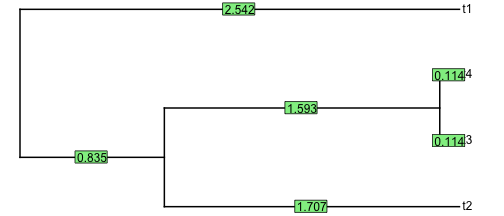
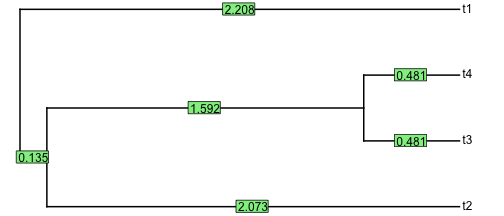
lecure 6 updated

diff --git a/GMcourse/Lectures/06-ShapeStatistics1.html b/GMcourse/Lectures/06-ShapeStatistics1.html
@@ -267,8 +267,8 @@ PCA$rot[, 1:5]
 ```
 
 
-<div class="datatables html-widget html-fill-item" id="htmlwidget-ff6ba36e5b4433b71799" style="width:100%;height:auto;"></div>
-<script type="application/json" data-for="htmlwidget-ff6ba36e5b4433b71799">{"x":{"filter":"none","vertical":false,"fillContainer":false,"data":[["1.X","1.Y","2.X","2.Y","3.X","3.Y","4.X","4.Y","5.X","5.Y","6.X","6.Y","7.X","7.Y","8.X","8.Y","9.X","9.Y","10.X","10.Y","11.X","11.Y","12.X","12.Y"],[-0.18519,0.05405,-0.25751,0.12104,0.24555,0.08671,0.01913,0.01574,0.03013,-0.06,0.03942,-0.07298,-0.03292,-0.15883,-0.07436,-0.02267,-0.1294,0.14563,-0.14615,0.04686,0.78142,-0.05272,-0.29012,-0.10285],[0.44578,0.26015,0.14487,0.35368,0.06079,0.15116,-0.00471,-0.10675,-0.04475,-0.10706,-0.02427,-0.16916,-0.14499,-0.08201,-0.0491,-0.01583,0.0163,0.10257,0.07706,0.13217,-0.18989,0.04808,-0.28709,-0.56701],[0.22986,-0.08275,0.21506,0.10056,0.32681,0.00228,-0.20322,0.35931,-0.19877,0.15439,-0.17122,0.009809999999999999,-0.21542,-0.18189,0.06254,-0.16576,0.18179,-0.23899,0.07886,-0.13614,0.01087,-0.20317,-0.31717,0.38235],[-0.26247,0.11272,-0.01087,0.46841,0.47658,-0.04908,-0.11434,-0.00444,-0.05717,0.12899,0.1062,0.0582,0.08944000000000001,0.01527,-0.1435,-0.17252,-0.17443,-0.1315,-0.16718,-0.21664,-0.17314,-0.06654,0.43089,-0.14288],[-0.16719,0.22104,0.02176,-0.25447,0.44786,0.02916,-0.0437,-0.44113,-0.16144,-0.22846,-0.05394,0.14802,0.0188,0.27939,-0.08595,0.08477999999999999,0.38216,0.11626,-0.05794,0.12139,-0.12552,-0.17414,-0.1749,0.09816]],"container":"<table class=\"display\">\n  <thead>\n    <tr>\n      <th> <\/th>\n      <th>Comp1<\/th>\n      <th>Comp2<\/th>\n      <th>Comp3<\/th>\n      <th>Comp4<\/th>\n      <th>Comp5<\/th>\n    <\/tr>\n  <\/thead>\n<\/table>","options":{"pageLength":3,"columnDefs":[{"className":"dt-right","targets":[1,2,3,4,5]},{"orderable":false,"targets":0},{"name":" ","targets":0},{"name":"Comp1","targets":1},{"name":"Comp2","targets":2},{"name":"Comp3","targets":3},{"name":"Comp4","targets":4},{"name":"Comp5","targets":5}],"order":[],"autoWidth":false,"orderClasses":false,"lengthMenu":[3,10,25,50,100]}},"evals":[],"jsHooks":[]}</script>
+<div class="datatables html-widget html-fill-item" id="htmlwidget-3292869b40014c78f914" style="width:100%;height:auto;"></div>
+<script type="application/json" data-for="htmlwidget-3292869b40014c78f914">{"x":{"filter":"none","vertical":false,"fillContainer":false,"data":[["1.X","1.Y","2.X","2.Y","3.X","3.Y","4.X","4.Y","5.X","5.Y","6.X","6.Y","7.X","7.Y","8.X","8.Y","9.X","9.Y","10.X","10.Y","11.X","11.Y","12.X","12.Y"],[-0.18519,0.05405,-0.25751,0.12104,0.24555,0.08671,0.01913,0.01574,0.03013,-0.06,0.03942,-0.07298,-0.03292,-0.15883,-0.07436,-0.02267,-0.1294,0.14563,-0.14615,0.04686,0.78142,-0.05272,-0.29012,-0.10285],[0.44578,0.26015,0.14487,0.35368,0.06079,0.15116,-0.00471,-0.10675,-0.04475,-0.10706,-0.02427,-0.16916,-0.14499,-0.08201,-0.0491,-0.01583,0.0163,0.10257,0.07706,0.13217,-0.18989,0.04808,-0.28709,-0.56701],[0.22986,-0.08275,0.21506,0.10056,0.32681,0.00228,-0.20322,0.35931,-0.19877,0.15439,-0.17122,0.009809999999999999,-0.21542,-0.18189,0.06254,-0.16576,0.18179,-0.23899,0.07886,-0.13614,0.01087,-0.20317,-0.31717,0.38235],[-0.26247,0.11272,-0.01087,0.46841,0.47658,-0.04908,-0.11434,-0.00444,-0.05717,0.12899,0.1062,0.0582,0.08944000000000001,0.01527,-0.1435,-0.17252,-0.17443,-0.1315,-0.16718,-0.21664,-0.17314,-0.06654,0.43089,-0.14288],[-0.16719,0.22104,0.02176,-0.25447,0.44786,0.02916,-0.0437,-0.44113,-0.16144,-0.22846,-0.05394,0.14802,0.0188,0.27939,-0.08595,0.08477999999999999,0.38216,0.11626,-0.05794,0.12139,-0.12552,-0.17414,-0.1749,0.09816]],"container":"<table class=\"display\">\n  <thead>\n    <tr>\n      <th> <\/th>\n      <th>Comp1<\/th>\n      <th>Comp2<\/th>\n      <th>Comp3<\/th>\n      <th>Comp4<\/th>\n      <th>Comp5<\/th>\n    <\/tr>\n  <\/thead>\n<\/table>","options":{"pageLength":3,"columnDefs":[{"className":"dt-right","targets":[1,2,3,4,5]},{"orderable":false,"targets":0},{"name":" ","targets":0},{"name":"Comp1","targets":1},{"name":"Comp2","targets":2},{"name":"Comp3","targets":3},{"name":"Comp4","targets":4},{"name":"Comp5","targets":5}],"order":[],"autoWidth":false,"orderClasses":false,"lengthMenu":[3,10,25,50,100]}},"evals":[],"jsHooks":[]}</script>
 ]
 
 ---
@@ -1189,10 +1189,10 @@ is an analysis that finds phylogenetically aligned components of the data (most 
 
 ```
 ##       t2    t3    t4    t1
-## t2 2.542 0.835 0.835 0.000
-## t3 0.835 2.542 2.428 0.000
-## t4 0.835 2.428 2.542 0.000
-## t1 0.000 0.000 0.000 2.542
+## t2 2.208 0.135 0.135 0.000
+## t3 0.135 2.208 1.727 0.000
+## t4 0.135 1.727 2.208 0.000
+## t1 0.000 0.000 0.000 2.208
 ```
 ]
 
